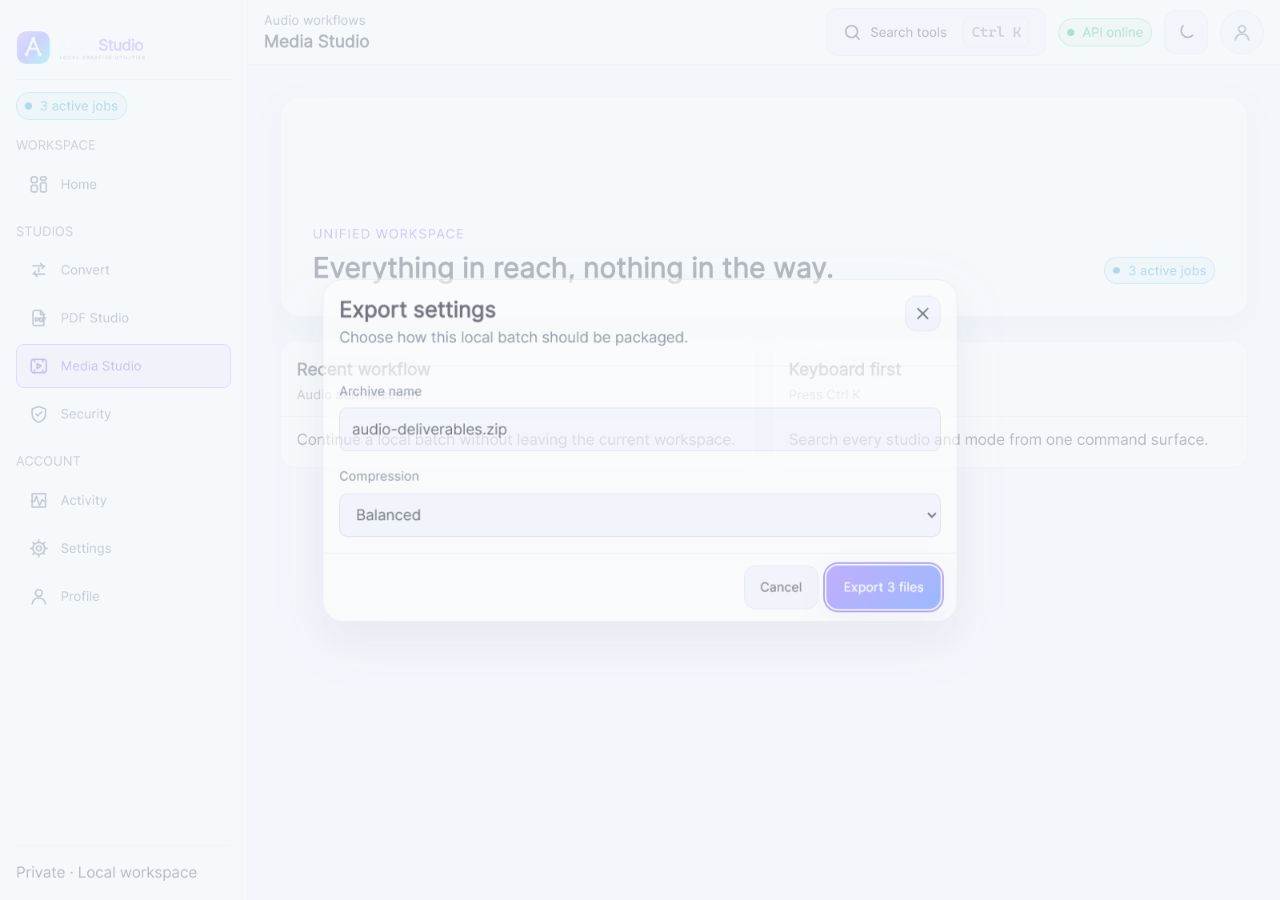
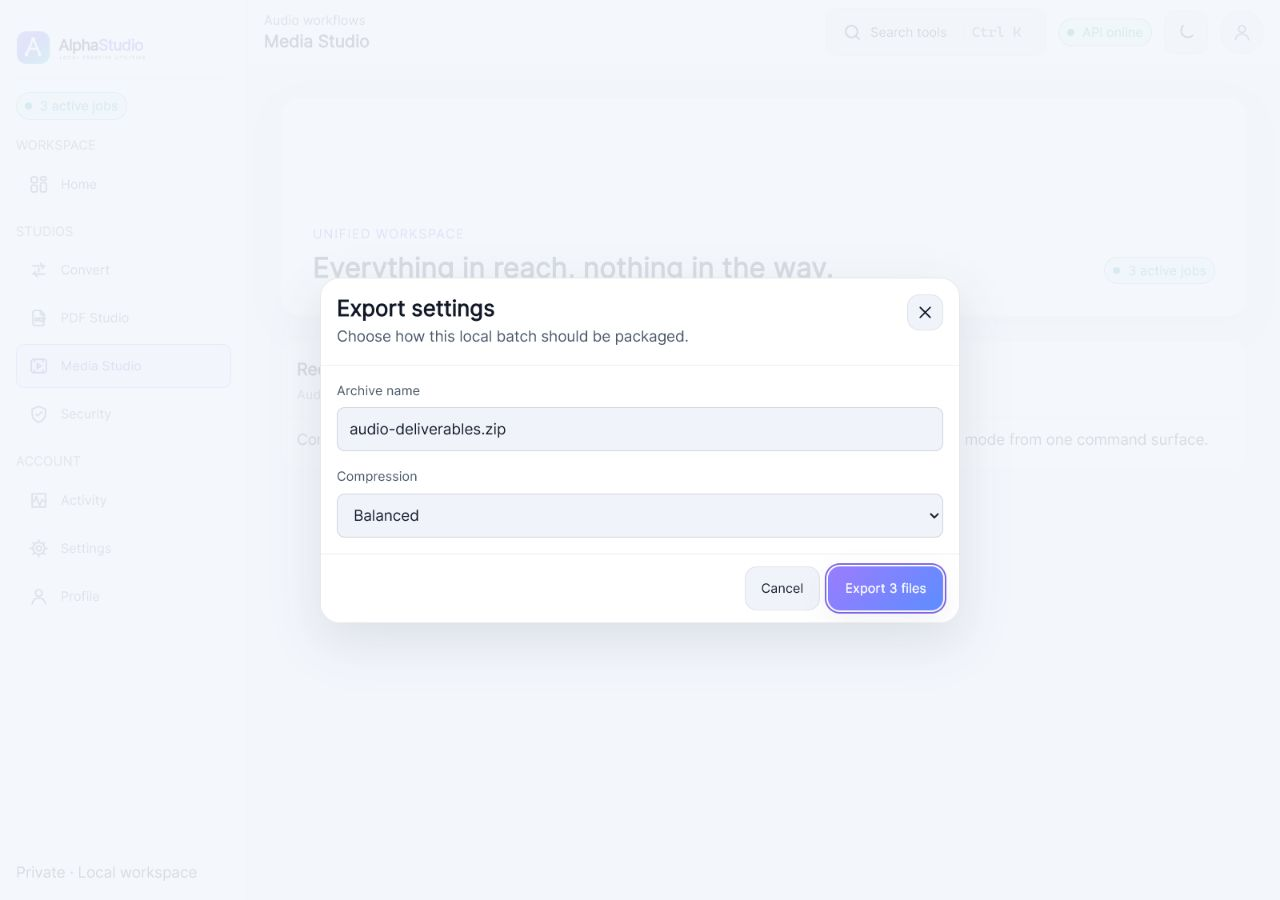
fix(ui): harden overlay focus and isolation

diff --git a/src/tests/primitives-overlay-chrome.test.jsx b/src/tests/primitives-overlay-chrome.test.jsx
@@ -5,6 +5,7 @@ import React from 'react';
 import { renderToStaticMarkup } from 'react-dom/server';
 import { describe, expect, it } from 'vitest';
 
+import { brandAssets } from '../assets/registry.js';
 import {
   CommandPalette,
   Modal,
@@ -12,8 +13,13 @@ import {
   Topbar,
   buildPaletteItems,
   filterPaletteItems,
+  getPaletteInputEntryIndex,
   getNextPaletteIndex,
 } from '../next/components/index.jsx';
+import {
+  isFocusableCandidate,
+  selectInitialFocusTarget,
+} from '../hooks/useFocusTrap.js';
 
 const COMPONENTS_DIR = fileURLToPath(new URL('../next/components/', import.meta.url));
 const FOCUS_TRAP = fileURLToPath(new URL('../hooks/useFocusTrap.js', import.meta.url));
@@ -62,6 +68,12 @@ describe('C4 Modal and the single focus trap', () => {
     )).toBe('');
   });
 
+  it('rejects an open unnamed dialog', () => {
+    expect(() => renderToStaticMarkup(
+      <Modal open onClose={() => {}}>Unnamed</Modal>,
+    )).toThrow(/non-empty title or ariaLabel/);
+  });
+
   it('keeps one focus-trap implementation and makes Modal and Sidebar consume it', () => {
     const sources = fs
       .readdirSync(COMPONENTS_DIR)
@@ -74,6 +86,45 @@ describe('C4 Modal and the single focus trap', () => {
     expect(consumers).toEqual(['Modal.jsx', 'Sidebar.jsx']);
     expect(fs.readFileSync(FOCUS_TRAP, 'utf8')).toContain('export default function useFocusTrap');
     expect(sources.some(({ source }) => source.includes('querySelectorAll(FOCUSABLE_SELECTOR)'))).toBe(false);
+  });
+
+  it('does not restart the trap when escape, busy, or restoration options change', () => {
+    const source = fs.readFileSync(FOCUS_TRAP, 'utf8');
+    expect(source).toContain('optionsRef.current = { initialFocusRef, onEscape, restoreFocus }');
+    expect(source).toContain('}, [active, containerRef]);');
+  });
+
+  it('falls back from disabled, hidden, or out-of-root initial targets', () => {
+    const fallback = { id: 'fallback' };
+    const disabled = { id: 'disabled' };
+    const hidden = { id: 'hidden' };
+    const outside = { id: 'outside' };
+    const root = {
+      contains: (candidate) => candidate !== outside,
+    };
+    const focusable = [fallback];
+    expect(selectInitialFocusTarget(root, focusable, disabled)).toBe(fallback);
+    expect(selectInitialFocusTarget(root, focusable, hidden)).toBe(fallback);
+    expect(selectInitialFocusTarget(root, focusable, outside)).toBe(fallback);
+  });
+
+  it('excludes disabled controls and controls below hidden or inert ancestors', () => {
+    const visible = {
+      matches: () => false,
+      closest: () => null,
+      offsetParent: {},
+    };
+    expect(isFocusableCandidate(visible, null)).toBe(true);
+    expect(isFocusableCandidate({ ...visible, matches: () => true }, null)).toBe(false);
+    expect(isFocusableCandidate({ ...visible, closest: () => ({}) }, null)).toBe(false);
+    expect(isFocusableCandidate({
+      ...visible,
+      ownerDocument: {
+        defaultView: {
+          getComputedStyle: () => ({ display: 'block', visibility: 'hidden' }),
+        },
+      },
+    }, null)).toBe(false);
   });
 });
 
@@ -108,6 +159,14 @@ describe('C4 CommandPalette searches hubs and modes with roving focus', () => {
     expect(getNextPaletteIndex(3, 2, 'Home')).toBe(0);
     expect(getNextPaletteIndex(3, 0, 'End')).toBe(2);
     expect(getNextPaletteIndex(0, 0, 'ArrowDown')).toBe(-1);
+  });
+
+  it('enters the result list from search without skipping the first option', () => {
+    expect(getPaletteInputEntryIndex(3, 'ArrowDown')).toBe(0);
+    expect(getPaletteInputEntryIndex(3, 'Home')).toBe(0);
+    expect(getPaletteInputEntryIndex(3, 'ArrowUp')).toBe(2);
+    expect(getPaletteInputEntryIndex(3, 'End')).toBe(2);
+    expect(getPaletteInputEntryIndex(0, 'ArrowDown')).toBe(-1);
   });
 
   it('renders selected listbox options and a designed empty state', () => {
@@ -146,6 +205,17 @@ describe('C4 Sidebar and Topbar chrome', () => {
     expect(html).toContain('aria-current="page"');
     expect(html).toContain('3 active jobs');
     expect(html).toContain('status-badge--live');
+  });
+
+  it('uses the contrast-safe brand lockup for each chrome theme', () => {
+    const dark = renderToStaticMarkup(
+      <Sidebar navigation={navigation} theme="dark" />,
+    );
+    const light = renderToStaticMarkup(
+      <Sidebar navigation={navigation} theme="light" />,
+    );
+    expect(dark).toContain(brandAssets.horizontal);
+    expect(light).toContain(brandAssets.horizontalLight);
   });
 
   it('marks the mobile drawer open and exposes one named close action', () => {

diff --git a/src/hooks/useFocusTrap.js b/src/hooks/useFocusTrap.js
@@ -1,4 +1,4 @@
-import { useEffect } from 'react';
+import { useEffect, useRef } from 'react';
 
 export const FOCUSABLE_SELECTOR = [
   'a[href]',
@@ -9,12 +9,28 @@ export const FOCUSABLE_SELECTOR = [
   '[tabindex]:not([tabindex="-1"])',
 ].join(',');
 
-export function getFocusableElements(root) {
+export function isFocusableCandidate(element, activeElement) {
+  if (!element || element.matches?.(':disabled')) return false;
+  if (element.closest?.('[hidden], [inert], [aria-hidden="true"]')) return false;
+  const style = element.ownerDocument?.defaultView?.getComputedStyle?.(element);
+  if (style && (style.display === 'none' || style.visibility === 'hidden')) return false;
+  const hasLayoutBox = element.offsetParent !== null
+    || (typeof element.getClientRects === 'function' && element.getClientRects().length > 0);
+  return hasLayoutBox || element === activeElement;
+}
+
+export function getFocusableElements(
+  root,
+  activeElement = typeof document === 'undefined' ? null : document.activeElement,
+) {
   if (!root) return [];
   return Array.from(root.querySelectorAll(FOCUSABLE_SELECTOR))
-    .filter((element) => !element.hasAttribute('inert')
-      && element.getAttribute('aria-hidden') !== 'true'
-      && (element.offsetParent !== null || element === document.activeElement));
+    .filter((element) => isFocusableCandidate(element, activeElement));
+}
+
+export function selectInitialFocusTarget(root, focusable, requested) {
+  if (requested && root?.contains?.(requested) && focusable.includes(requested)) return requested;
+  return focusable[0] || root || null;
 }
 
 export default function useFocusTrap({
@@ -24,20 +40,28 @@ export default function useFocusTrap({
   onEscape,
   restoreFocus = true,
 }) {
+  const optionsRef = useRef({ initialFocusRef, onEscape, restoreFocus });
+  optionsRef.current = { initialFocusRef, onEscape, restoreFocus };
+
   useEffect(() => {
     if (!active || typeof document === 'undefined') return undefined;
     const root = containerRef.current;
     if (!root) return undefined;
     const previous = document.activeElement;
     const frame = requestAnimationFrame(() => {
-      const target = initialFocusRef?.current || getFocusableElements(root)[0] || root;
+      const focusable = getFocusableElements(root);
+      const target = selectInitialFocusTarget(
+        root,
+        focusable,
+        optionsRef.current.initialFocusRef?.current,
+      );
       target?.focus?.();
     });
 
     const handleKeyDown = (event) => {
       if (event.key === 'Escape') {
         event.preventDefault();
-        onEscape?.();
+        optionsRef.current.onEscape?.();
         return;
       }
       if (event.key !== 'Tab') return;
@@ -62,7 +86,9 @@ export default function useFocusTrap({
     return () => {
       cancelAnimationFrame(frame);
       document.removeEventListener('keydown', handleKeyDown);
-      if (restoreFocus && previous && typeof previous.focus === 'function') previous.focus();
+      if (optionsRef.current.restoreFocus && previous && typeof previous.focus === 'function') {
+        previous.focus();
+      }
     };
-  }, [active, containerRef, initialFocusRef, onEscape, restoreFocus]);
+  }, [active, containerRef]);
 }

diff --git a/src/next/components/Modal.jsx b/src/next/components/Modal.jsx
@@ -20,7 +20,13 @@ export default function Modal({
   const titleId = useId();
   const descriptionId = useId();
   const safeVariant = variant === 'palette' ? 'palette' : 'dialog';
-  const showHeader = Boolean(title) || (safeVariant === 'dialog' && Boolean(onClose));
+  const hasTitle = typeof title === 'string' ? Boolean(title.trim()) : Boolean(title);
+  const accessibleLabel = typeof ariaLabel === 'string' ? ariaLabel.trim() : '';
+  const showHeader = hasTitle || (safeVariant === 'dialog' && Boolean(onClose));
+
+  if (open && !hasTitle && !accessibleLabel) {
+    throw new Error('Modal requires a non-empty title or ariaLabel while open.');
+  }
 
   useFocusTrap({
     active: open,
@@ -47,15 +53,15 @@ export default function Modal({
         role="dialog"
         aria-modal="true"
         aria-busy={busy || undefined}
-        aria-label={!title ? ariaLabel : undefined}
-        aria-labelledby={title ? titleId : undefined}
+        aria-label={!hasTitle ? accessibleLabel : undefined}
+        aria-labelledby={hasTitle ? titleId : undefined}
         aria-describedby={description ? descriptionId : undefined}
         tabIndex={-1}
       >
         {showHeader ? (
           <header className="modal__header">
             <div>
-              {title ? <h2 id={titleId}>{title}</h2> : null}
+              {hasTitle ? <h2 id={titleId}>{title}</h2> : null}
               {description ? <p id={descriptionId}>{description}</p> : null}
             </div>
             {onClose ? (

diff --git a/src/styles/primitives.css b/src/styles/primitives.css
@@ -1422,7 +1422,7 @@ html[data-motion='reduced'] .progress-bar--indeterminate .progress-bar__fill {
   position: fixed;
   inset: 0;
   border: 0;
-  background: color-mix(in srgb, var(--bg), transparent 28%);
+  background: color-mix(in srgb, var(--bg), transparent 12%);
 }
 
 .modal__scrim {
@@ -1459,6 +1459,7 @@ html[data-motion='reduced'] .progress-bar--indeterminate .progress-bar__fill {
   gap: var(--space-4);
   padding: var(--space-4);
   border-bottom: 1px solid var(--border);
+  background: var(--surface);
 }
 
 .modal__header > div {
@@ -1483,6 +1484,7 @@ html[data-motion='reduced'] .progress-bar--indeterminate .progress-bar__fill {
   min-height: 0;
   overflow: auto;
   padding: var(--space-4);
+  background: var(--surface);
 }
 
 .modal--palette .modal__body {
@@ -1496,6 +1498,7 @@ html[data-motion='reduced'] .progress-bar--indeterminate .progress-bar__fill {
   gap: var(--space-2);
   padding: var(--space-3) var(--space-4);
   border-top: 1px solid var(--border);
+  background: var(--surface);
 }
 
 .modal__surface:focus {

diff --git a/src/next/components/CommandPalette.jsx b/src/next/components/CommandPalette.jsx
@@ -46,6 +46,11 @@ export function getNextPaletteIndex(length, current, key) {
   return Math.min(Math.max(current, 0), length - 1);
 }
 
+export function getPaletteInputEntryIndex(length, key) {
+  if (length <= 0) return -1;
+  return key === 'ArrowUp' || key === 'End' ? length - 1 : 0;
+}
+
 export default function CommandPalette({
   open,
   navigation = [],
@@ -106,7 +111,7 @@ export default function CommandPalette({
             onKeyDown={(event) => {
               if (['ArrowDown', 'ArrowUp', 'Home', 'End'].includes(event.key)) {
                 event.preventDefault();
-                focusResult(getNextPaletteIndex(results.length, activeIndex, event.key));
+                focusResult(getPaletteInputEntryIndex(results.length, event.key));
               }
             }}
             placeholder="Search tools and modes…"

diff --git a/src/next/components/Sidebar.jsx b/src/next/components/Sidebar.jsx
@@ -13,6 +13,7 @@ export default function Sidebar({
   onClose,
   activeJobCount = 0,
   footer,
+  theme = 'dark',
   className = '',
 }) {
   const drawerRef = useRef(null);
@@ -54,7 +55,10 @@ export default function Sidebar({
         tabIndex={mobileOpen ? -1 : undefined}
       >
         <header className="sidebar__brand">
-          <img src={brandAssets.horizontal} alt="AlphaStudio" />
+          <img
+            src={theme === 'light' ? brandAssets.horizontalLight : brandAssets.horizontal}
+            alt="AlphaStudio"
+          />
           <Button
             ref={closeRef}
             className="sidebar__close"

diff --git a/evidence/unit-11-gallery.jsx b/evidence/unit-11-gallery.jsx
@@ -83,6 +83,7 @@ function Shell({ mobileOpen = false }) {
         mobileOpen={mobileOpen}
         onClose={() => {}}
         activeJobCount={3}
+        theme={document.documentElement.dataset.theme}
         footer={<span>Private · Local workspace</span>}
       />
     </div>

diff --git a/src/next/components/index.jsx b/src/next/components/index.jsx
@@ -5,6 +5,7 @@ export {
   default as CommandPalette,
   buildPaletteItems,
   filterPaletteItems,
+  getPaletteInputEntryIndex,
   getNextPaletteIndex,
 } from './CommandPalette';
 export { default as EmptyState } from './EmptyState';
